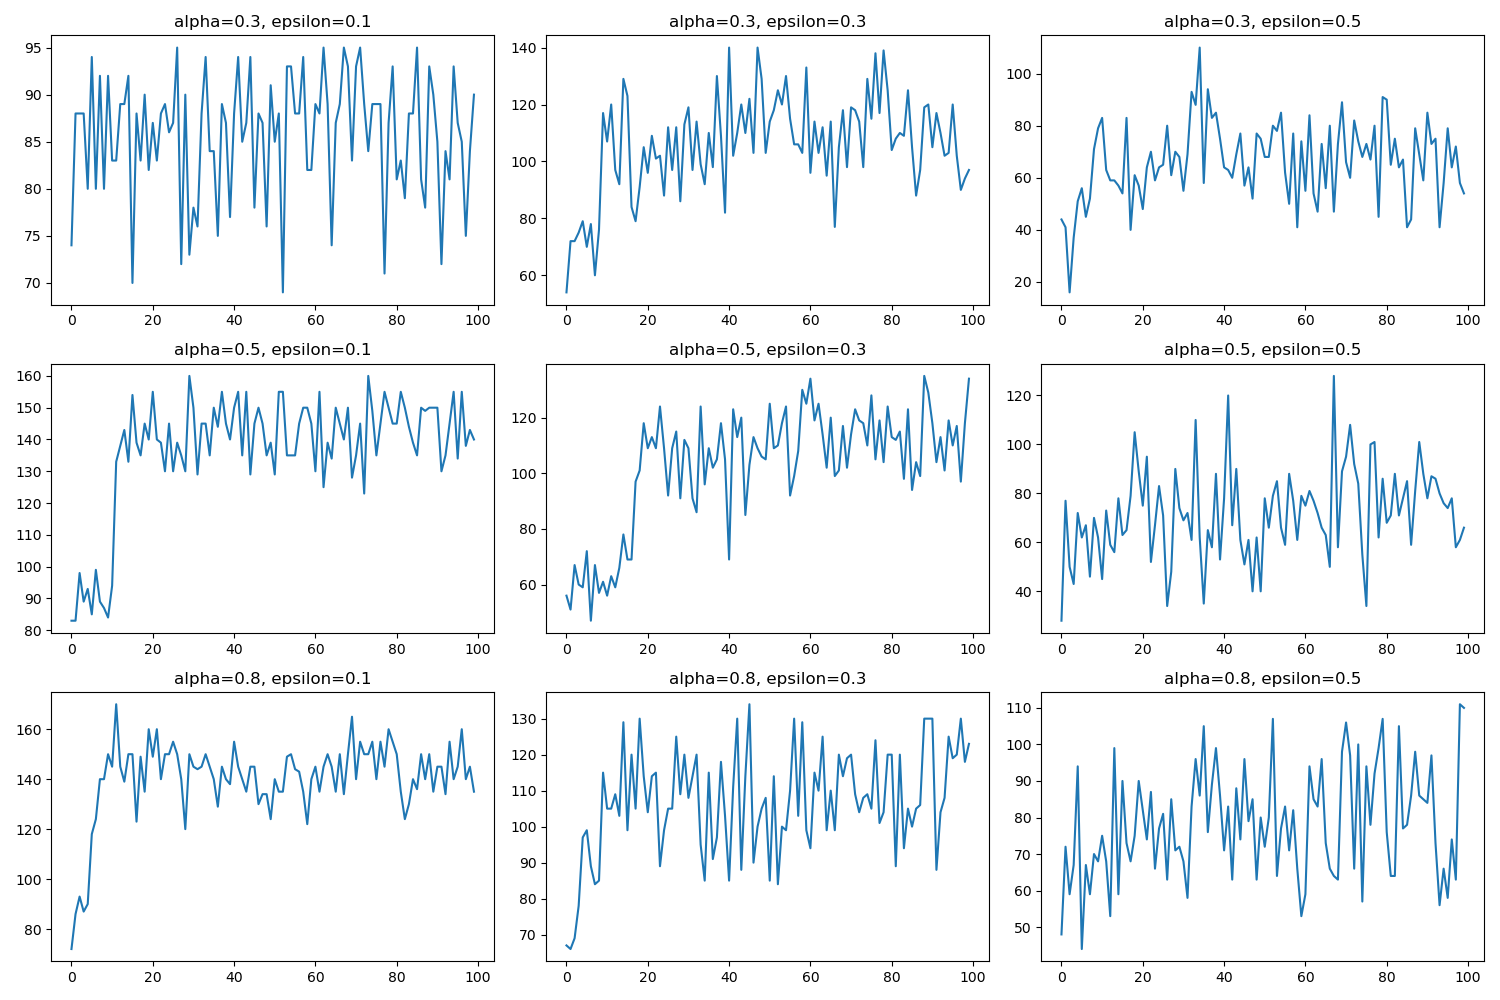
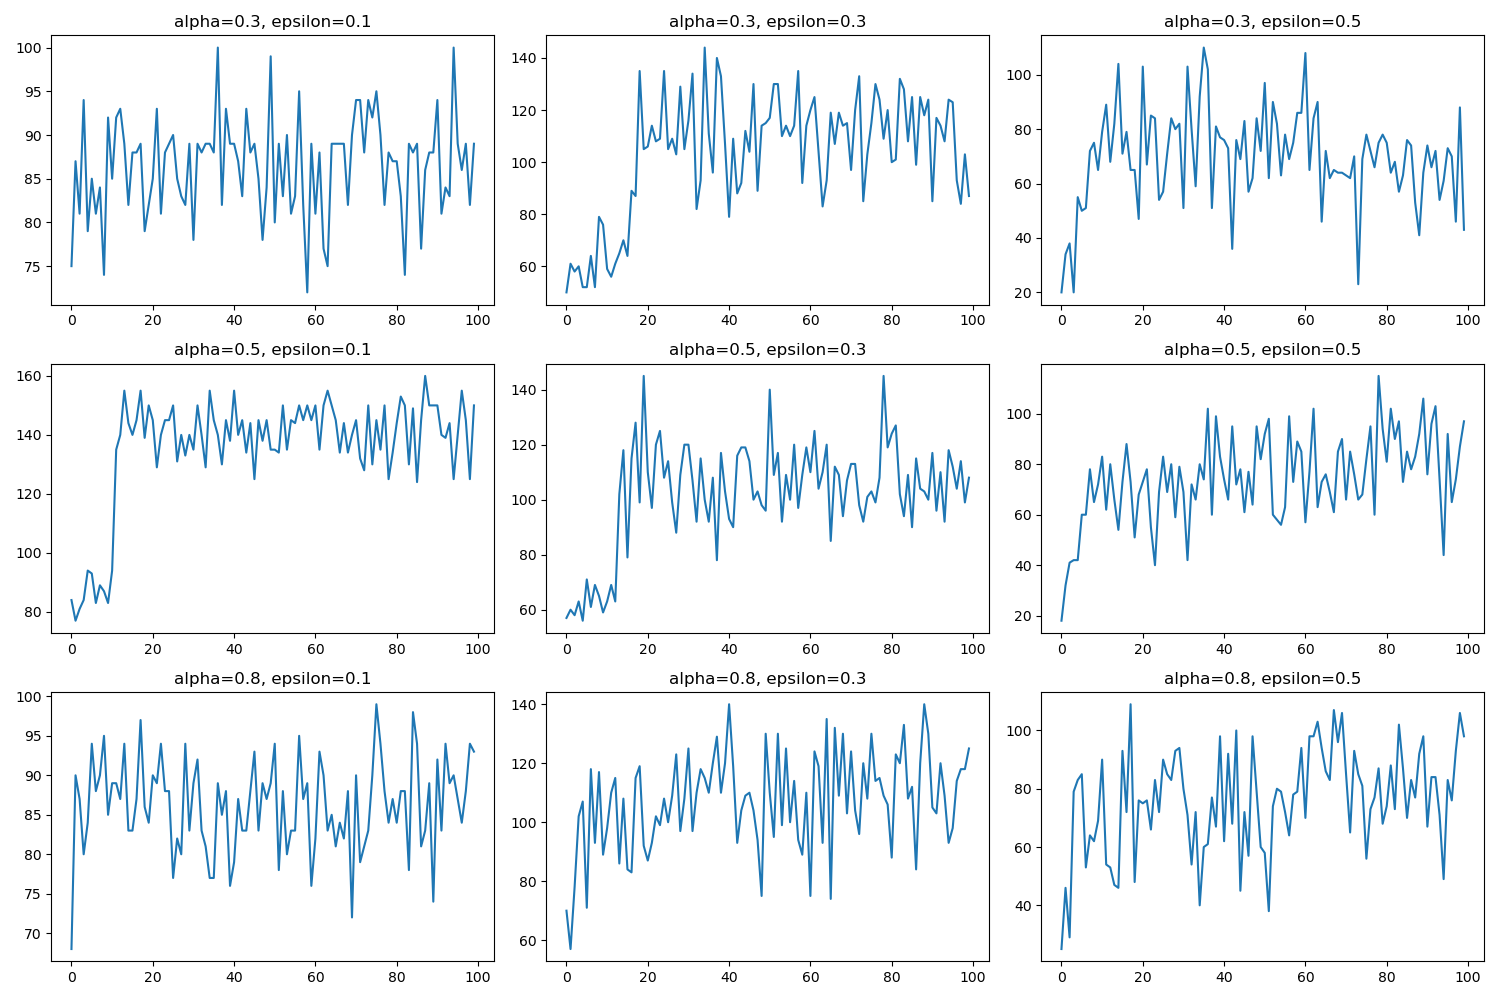
some minor code changes after pull request

diff --git a/train_gridworld.py b/train_gridworld.py
@@ -26,7 +26,8 @@ class PolicyIteration:
     def train(self,plot=True):
        
         # Initialize the policy and value function
-        policy = np.zeros(self.num_states)
+        # policy = np.zeros(self.num_states)
+        policy = np.random.randint(self.num_actions, self.num_states)
         V = np.zeros(self.num_states)
         
         mean_V_list = []
@@ -58,7 +59,7 @@ class PolicyIteration:
             policy_stable = True
             for s in range(self.num_states):
                 old_action = policy[s]
-                policy[s] = policy[s] = np.argmax([sum([self.env.p(s1, s, a) * (self.env.r(s, a) + self.gamma * V[s1]) \
+                policy[s] = np.argmax([sum([self.env.p(s1, s, a) * (self.env.r(s, a) + self.gamma * V[s1]) \
                                             for s1 in range(self.env.num_states)]) for a in range(self.env.num_actions)])
                 if old_action != policy[s]:
                     policy_stable = False
@@ -142,7 +143,8 @@ class ValueIteration:
     def train(self, plot = True):
 
         V = np.zeros(self.num_states)
-        policy = np.zeros(self.num_states)
+        # policy = np.zeros(self.num_states)
+        policy = np.random.randint(self.num_actions, self.num_states)
 
         
         value_hist_mean = []
@@ -267,7 +269,9 @@ class SarsaTD0:
             state = self.env.reset()
             action = self.choose_action(state)
             total_return = 0
-            for step in range(self.env.max_num_steps):
+            done = False
+            # for step in range(self.env.max_num_steps):
+            while not done:
                 next_state, reward, done= self.env.step(action)
                 next_action = self.choose_action(next_state)
                 # SARSA update rule
@@ -279,7 +283,7 @@ class SarsaTD0:
                     break
             returns.append(total_return)
 
-        # Compute value function using TD(0)
+        # Compute state value function using TD(0)
         
         for state in range(self.env.num_states):
             for action in range(self.env.num_actions):
